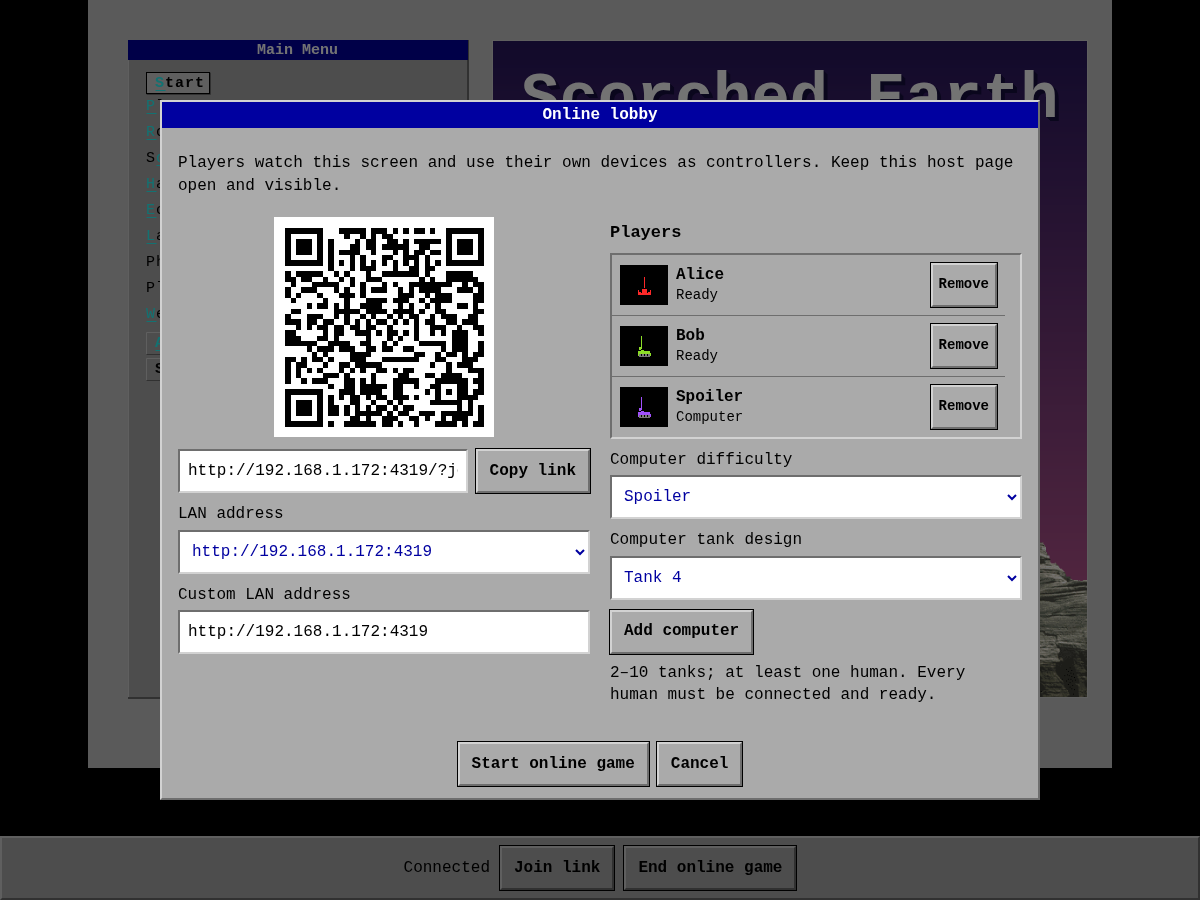
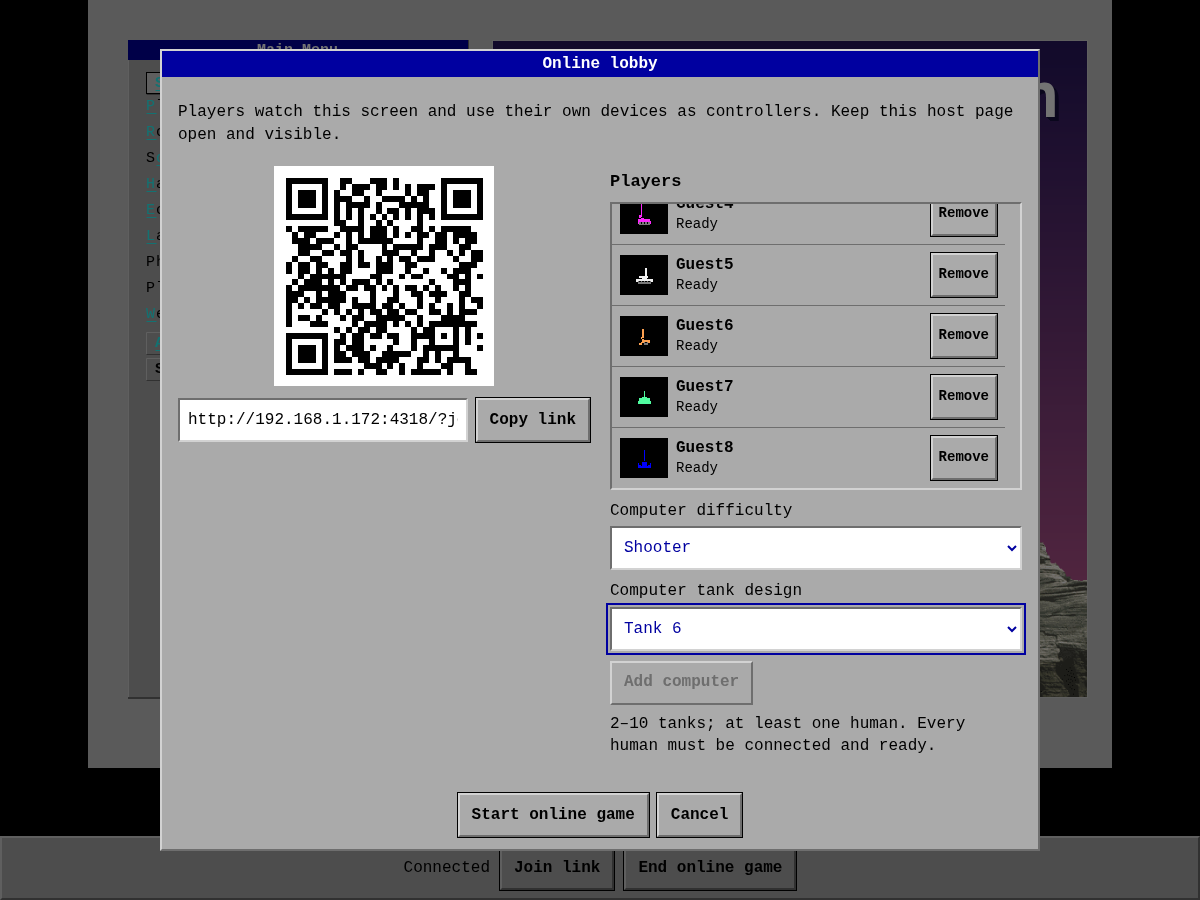
Remove manual online lobby address controls

Changed region(s): [[0.1233, 0.0311, 0.8942, 0.9644]]

diff --git a/src/online.ts b/src/online.ts
@@ -27,16 +27,15 @@ export class HostSession {
   private status = el("span", "Creating room…");
   private lastPublish = -Infinity;
   private disposed = false;
-  private origin: string;
+  private readonly origin: string;
   private localConfig: Config;
   private shareOpen = false;
   private barSize: ResizeObserver;
   private pending: Extract<ServerMessage, { type: "input" }>[] = [];
 
-  constructor(private app: App, private urls: string[]) {
+  constructor(private app: App, urls: string[]) {
     this.localConfig = app.cfg;
     this.origin = joinOrigin(location.href, urls);
-    this.urls = [...new Set([this.origin, ...urls].filter(Boolean))];
     this.box = dialog("Online lobby", { wide: true, cancel: () => app._act("to_menu") });
     this.box.body.append(el("p", "Creating room…"));
     this.bar.append(this.status);
@@ -148,7 +147,7 @@ export class HostSession {
       this.roster = undefined;
     }
     // Presence updates only touch the roster and button availability. Preserve
-    // the host's address draft, AI choices, keyboard focus, and scroll position.
+    // the host's AI choices, keyboard focus, and scroll position.
     if (this.roster && this.lobbyStarted === this.room.started) {
       this.updateLobbyState();
       return;
@@ -176,42 +175,19 @@ export class HostSession {
       else { link.focus(); link.select(); document.execCommand("copy"); }
     });
     linkRow.append(link, copy);
-    const updateLink = (): void => {
-      qr.hidden = !this.origin;
-      linkRow.hidden = !this.origin;
-      qrMessage.textContent = this.origin ? "" : "Enter a LAN address to generate the join link and QR code.";
-      if (!this.origin) return;
+    qr.hidden = !this.origin;
+    linkRow.hidden = !this.origin;
+    qrMessage.textContent = this.origin ? "" : "No reachable join address found. Open this game using its public or LAN URL.";
+    if (this.origin) {
       const url = new URL("/", this.origin);
-      url.searchParams.set("join", this.room!.id);
+      url.searchParams.set("join", this.room.id);
       link.value = url.href;
       void QRCode.toCanvas(qr, url.href, { width: 220, margin: 2 }).catch(() => {
         qr.hidden = true;
         qrMessage.textContent = "Use the join link below.";
       });
-    };
+    }
     sharing.append(qr, qrMessage, linkRow);
-    const addressLabel = el("label", "LAN address");
-    const addresses = el("select");
-    for (const url of this.urls) { const option = el("option", url); option.value = url; addresses.append(option); }
-    addresses.value = this.origin;
-    const manualLabel = el("label", "Custom LAN address");
-    const manual = el("input");
-    manual.type = "text"; manual.value = this.origin; manual.placeholder = "http://192.168.1.10:3000";
-    const addressError = el("p", "", "lan-error");
-    addressError.setAttribute("role", "status");
-    addresses.onchange = () => {
-      this.origin = addresses.value; manual.value = this.origin; addressError.textContent = ""; updateLink();
-    };
-    manual.onchange = () => {
-      try {
-        const url = new URL(manual.value);
-        if (!["http:", "https:"].includes(url.protocol) || ["localhost", "127.0.0.1", "[::1]", "0.0.0.0"].includes(url.hostname)) throw new Error();
-        this.origin = url.origin; addresses.value = this.origin; addressError.textContent = ""; updateLink();
-      } catch { addressError.textContent = "Enter the host's reachable LAN address, including http:// and the port."; }
-    };
-    addressLabel.append(addresses); manualLabel.append(manual);
-    sharing.append(addressLabel, manualLabel, addressError);
-    updateLink();
 
     this.roster = new Roster(this.room.started ? undefined : (id) => this.connection.send({ type: "remove", player: id }));
     players.append(el("h2", "Players"), this.roster.element);

diff --git a/README.md b/README.md
@@ -94,8 +94,10 @@ npm run lan
 
 Open one of the printed host URLs, select **Start Game → Online**, and share the
 lobby's QR code or join link. Everyone must be on a network that can reach the host
-computer's port (3000 by default). If several network addresses are listed, choose
-the address on the same LAN as the players; the lobby also accepts a manual address.
+computer's port (3000 by default). The lobby generates its join link and QR code
+automatically using the URL you opened, including a public VPS URL. When opened
+through localhost, it uses the first detected LAN address. If the server prints
+several LAN URLs, open the one on the same network as the players.
 Set `PORT` before starting the server to use another port.
 
 Players choose a name and tank on their phones or browsers and press **Ready**.
